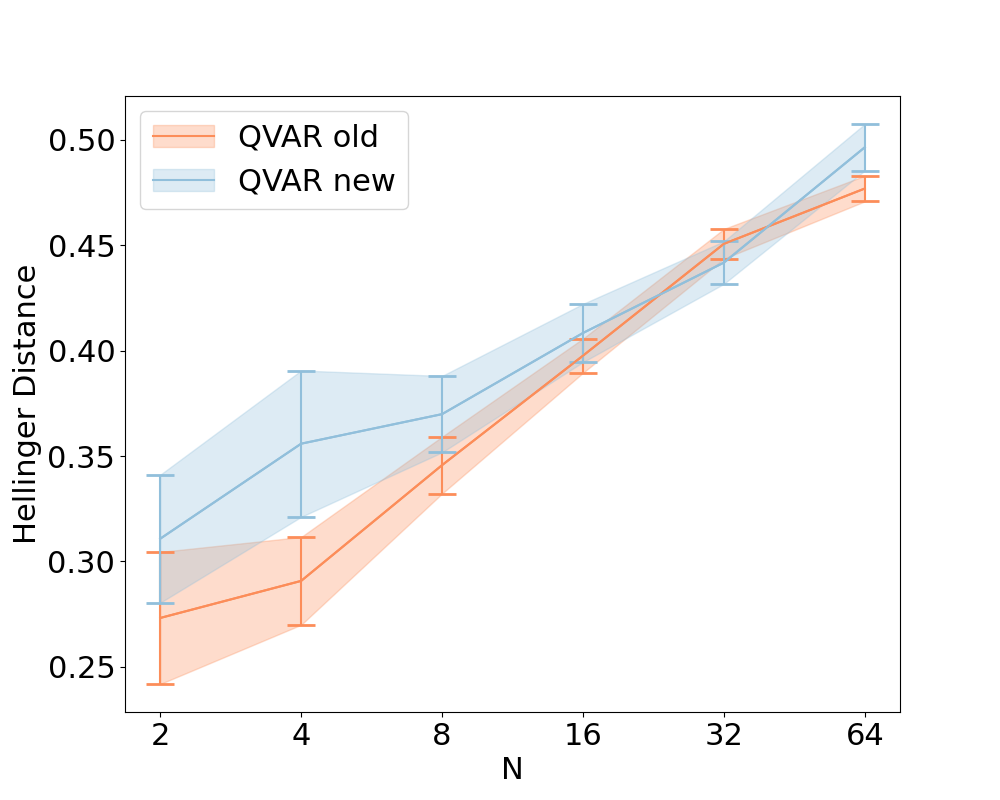
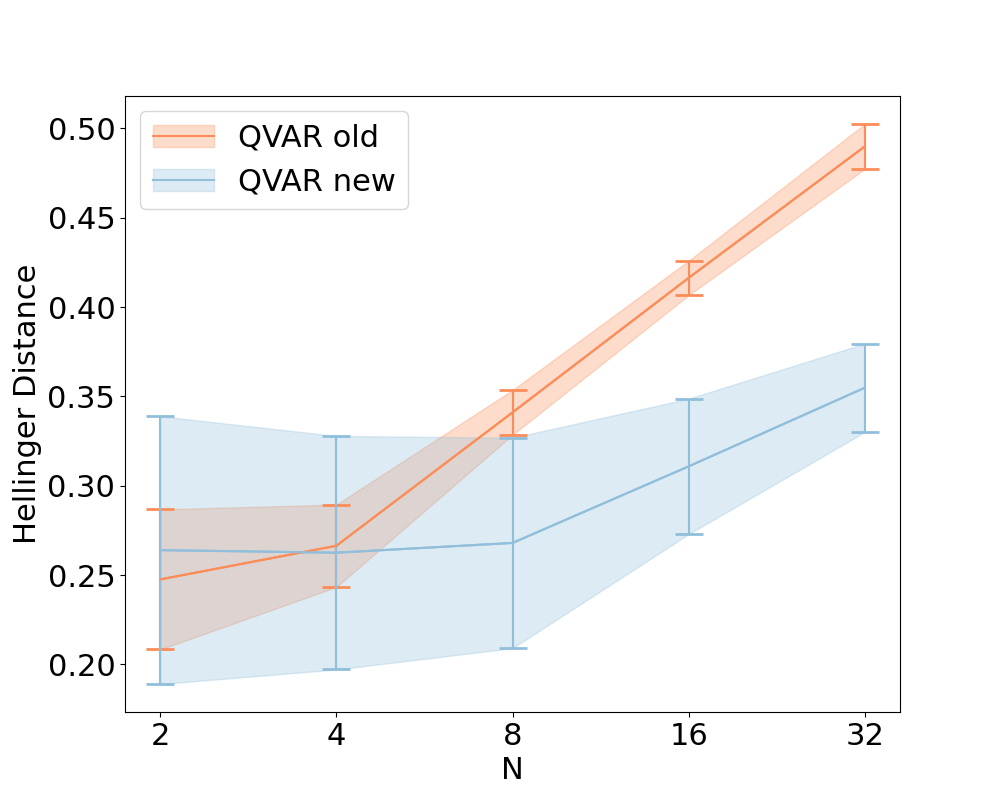
new test

diff --git a/qvar_old_vs_new_old.py b/qvar_old_vs_new_old.py
@@ -117,8 +117,8 @@ def QVAR_old(U, var_index=None, ps_index=None, version='FAE', delta=0.0001, max_
         qc_t = transpile(qc, backend)    
         counts = backend.run(qc_t, shots=shots).result().get_counts()
         
-        print("depth old: " + str(qc_t.depth()))
-        print("size_old: " + str(qc_t.size()))
+        #print("depth old: " + str(qc_t.depth()))
+        #print("size_old: " + str(qc_t.size()))
         #print("gate_fidelity_variance_old: " + str(backend._noise_info.gate_fidelity_variance))
         return counts
         try: 
@@ -254,8 +254,8 @@ def QVAR(U, var_index=None, ps_index=None, version='FAE', delta=0.0001, max_iter
         qc_t = transpile(qc, backend)    
         counts = backend.run(qc_t, shots=shots).result().get_counts()
 
-        print("depth_new: " + str(qc_t.depth()))
-        print("size_new: " + str(qc_t.size()))
+        #print("depth_new: " + str(qc_t.depth()))
+        #print("size_new: " + str(qc_t.size()))
         #print("gate_fidelity_variance_new: " + str(backend._noise_info.gate_fidelity_variance))
         return counts
         try: 
@@ -387,8 +387,8 @@ def test():
                 dm_new = QVAR(U, var_index=list(range(n)), ps_index=[U.num_qubits-1], version='STATEVECTOR', n_h_gates=n, backend=GenericBackendV2(2*n+2, noise_info=True, seed=s*123))
                 '''
 
-                counts_old = QVAR_old(U, var_index=list(range(n)), ps_index=[U.num_qubits-1], version='SHOTS', shots=shots, n_h_gates=n, backend=noisy_simulator)
-                counts_new = QVAR(U, var_index=list(range(n)), ps_index=[U.num_qubits-1], version='SHOTS', shots=shots, n_h_gates=n, backend=noisy_simulator)
+                counts_old = QVAR_old(U, var_index=list(range(n)), ps_index=[U.num_qubits-1], version='SHOTS', shots=shots, n_h_gates=n, backend=AerSimulator())
+                counts_new = QVAR(U, var_index=list(range(n)), ps_index=[U.num_qubits-1], version='SHOTS', shots=shots, n_h_gates=n, backend=AerSimulator())
                 counts_old_noisy = QVAR_old(U, var_index=list(range(n)), ps_index=[U.num_qubits-1], version='SHOTS', shots=shots, n_h_gates=n, backend=noisy_simulator)
                 counts_new_noisy = QVAR(U, var_index=list(range(n)), ps_index=[U.num_qubits-1], version='SHOTS', shots=shots, n_h_gates=n, backend=noisy_simulator)
 
@@ -453,7 +453,7 @@ def test_gaussian():
         
         for t in range(trial):
             np.random.seed(123*t)
-            vector = np.random.normal(0, 0.3, N)
+            vector = np.random.normal(0, 0.5, N)
             vector = np.clip(vector, -1, 1)
             classical = np.var(vector)
             cl.append(classical)
@@ -594,7 +594,7 @@ def print_result(filename="results.csv"):
     plt.savefig("fidelity.png")
 
 if __name__ == "__main__":
-    test()
+    #test()
     #print_result()
-    #test_gaussian()
+    test_gaussian()
     #print_result("results_g.csv")
